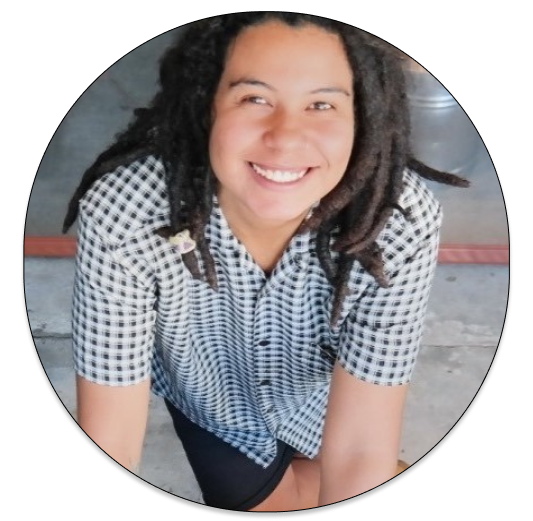
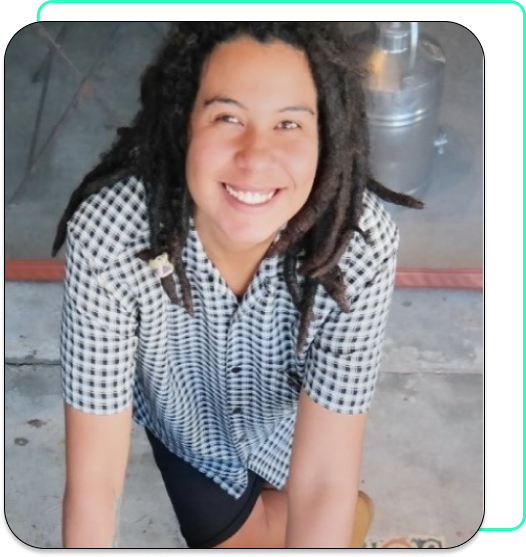
footer

diff --git a/style.css b/style.css
@@ -5,16 +5,17 @@
 }
 
 body {
+    
     background-image: url(./assets/background.jpg);
     background-repeat: no-repeat;
-    height: 100vh;  /* para ocupar 100 da tela  vh: viewport*/
+    /*height: 100vh;   para ocupar 100 da tela  vh: viewport*/
     box-sizing: border-box;
     overflow: auto;
     color: #ffffff;
 }
 
 .titulo-destaque{
-    color: #48ecbb;
+    color: #48ecc8;
 }
 a{
     color: #ffffff;
@@ -23,7 +24,9 @@ a{
     display: flex;
     align-items: center;
     justify-content: space-between;
-    margin: 10% 20%;
+    padding: 7% 15%;
+    gap: 82px;
+    
 }
 .apresentacao__conteudo {
     width: 615px;
@@ -45,8 +48,8 @@ a{
     font-size: 24px;
 }
 .img{
-    
     width: 480px;
+    border-radius: 10px;
 }
  .apresentacao__links{
     align-items: center;
@@ -76,4 +79,18 @@ a{
     background-color: rgba(3, 3, 3, 0.205);
 
  }
- 
+ .rodape{
+    text-align: center;
+    color: rgb(255, 255, 255);
+    background-color: #48ecbb;
+    font-family: 'IM Fell English SC', serif;
+    font-size: 20px;
+   
+   position: fixed;
+    bottom: 0;
+    left: 0;
+    
+    width: 100%;
+    padding: 12px;
+
+ }

diff --git a/index.html b/index.html
@@ -19,6 +19,7 @@
             com especialidade em JavaScript, HTML e CSS. 
             Ajudo pequenos negócios e designers a colocarem em prática boas ideias.
             Vamos conversar?</p>
+            
             <div class="apresentacao__links">
                 <h2 class="apresentacao__conteudo__titulo_2">Acesse minhas redes:</h2>
             <a class="apresentacao__links__link" href="https://www.linkedin.com/in/katherine-menezes-martins/" target="_blank"> <img class="logo" src="./assets/linkedin.png" alt="linkedin"> Linkedin</a>
@@ -29,8 +30,9 @@
         </section>
         <img class="img" src="./assets/img-perfil.png" alt="foto-perfil">
     </main>
-    <footer>
-
+   
+    <footer class="rodape">
+        <p>Desevolvido por Katherine Menezes </p>
     </footer>
 </body>
 </html> 
